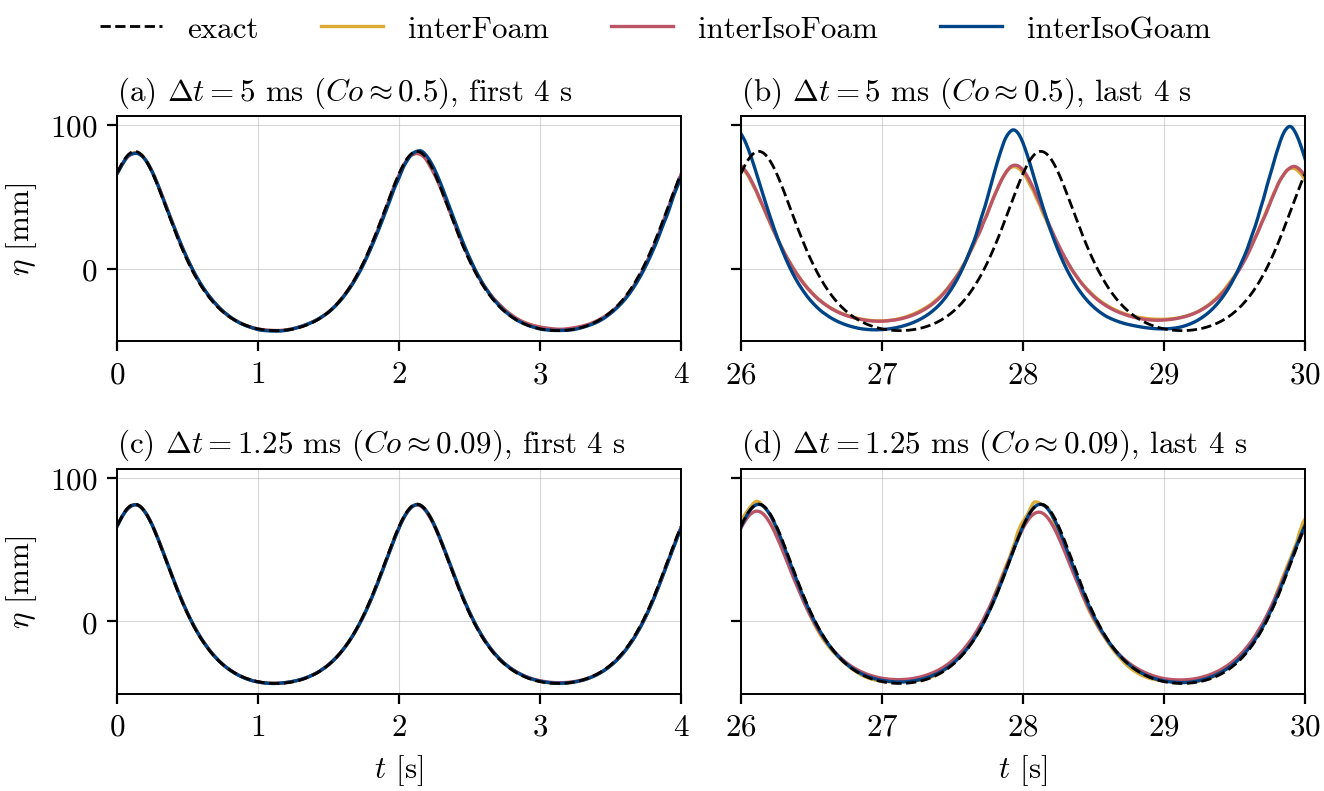
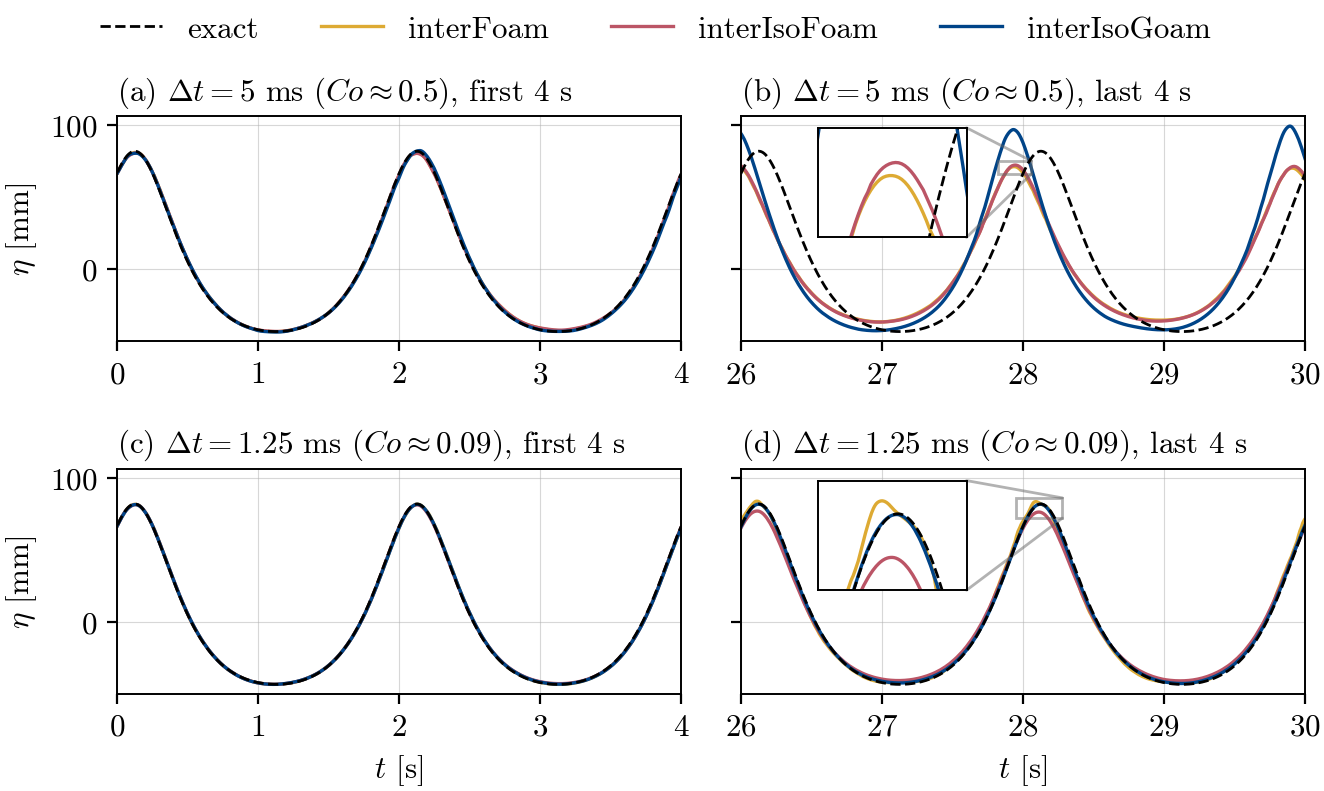
Part I: crest insets in Fig. eta (b) and (d)
The crest near t = 28 s is enlarged in the empty space above the left
trough, so that the curves of the three solvers can be told apart. The
y range is fixed at the former autoscaled range so that the inset can be
placed in data units.

diff --git a/papers/part1/waveFigures.py b/papers/part1/waveFigures.py
@@ -121,19 +121,40 @@ def fig_eta():
     """Surface elevation at the gauge, first and last 4 s, nz 80, large and small dt."""
     settings = [(["0024", "0025", "0026"], r"$\Delta t = 5$ ms ($Co \approx 0.5$)"),
                 (["0030", "0031", "0032"], r"$\Delta t = 1.25$ ms ($Co \approx 0.09$)")]
+    # Zoom on the crest near t = 28 s in the last 4 s ([t0, t1, eta0, eta1], s and mm),
+    # drawn above the trough at t = 27 s, where all curves stay below 10 mm
+    zoom = [[27.82, 28.06, 66, 75], [27.95, 28.28, 72, 86]]
+    ylim = (-50, 106)  # mm, fixed so that the inset can be placed in data units
+    insetBounds = [26.55, 22, 1.05, 76]  # t, eta, width, height (s, mm)
+    insetBounds = [(insetBounds[0] - 26)/4, (insetBounds[1] - ylim[0])/(ylim[1] - ylim[0]),
+                   insetBounds[2]/4, insetBounds[3]/(ylim[1] - ylim[0])]  # axes fraction
     tr, hr = eta(FIXED_DIR, REF)
     fig, axes = plt.subplots(2, 2, figsize=(FULL, 4.2), sharey=True)
     for row, (cases, label) in enumerate(settings):
         for col, (t0, t1) in enumerate([(0, 4), (26, 30)]):
             ax = axes[row, col]
+            axs = [ax]
+            if col == 1:
+                axs.append(ax.inset_axes(insetBounds))
             m = (tr >= t0) & (tr <= t1)
-            ax.plot(tr[m], hr[m]*1e3, "k--", lw=1.0, label="exact", zorder=5)
+            for a in axs:
+                a.plot(tr[m], hr[m]*1e3, "k--", lw=1.0, label="exact", zorder=5)
             for c in cases:
                 t, h = eta(FIXED_DIR, c)
                 m = (t >= t0) & (t <= t1)
                 s = app_of(FIXED_DIR, c)
-                ax.plot(t[m], h[m]*1e3, color=COLOUR[s], label=s)
+                for a in axs:
+                    a.plot(t[m], h[m]*1e3, color=COLOUR[s], label=s)
+            if col == 1:
+                inset = axs[1]
+                inset.set_xlim(*zoom[row][:2])
+                inset.set_ylim(*zoom[row][2:])
+                inset.set_xticks([])
+                inset.set_yticks([])
+                inset.grid(False)
+                ax.indicate_inset_zoom(inset, edgecolor="0.4")
             ax.set_xlim(t0, t1)
+            ax.set_ylim(*ylim)
             if col == 0:
                 ax.set_ylabel(r"$\eta$ [mm]")
             if row == 1:
